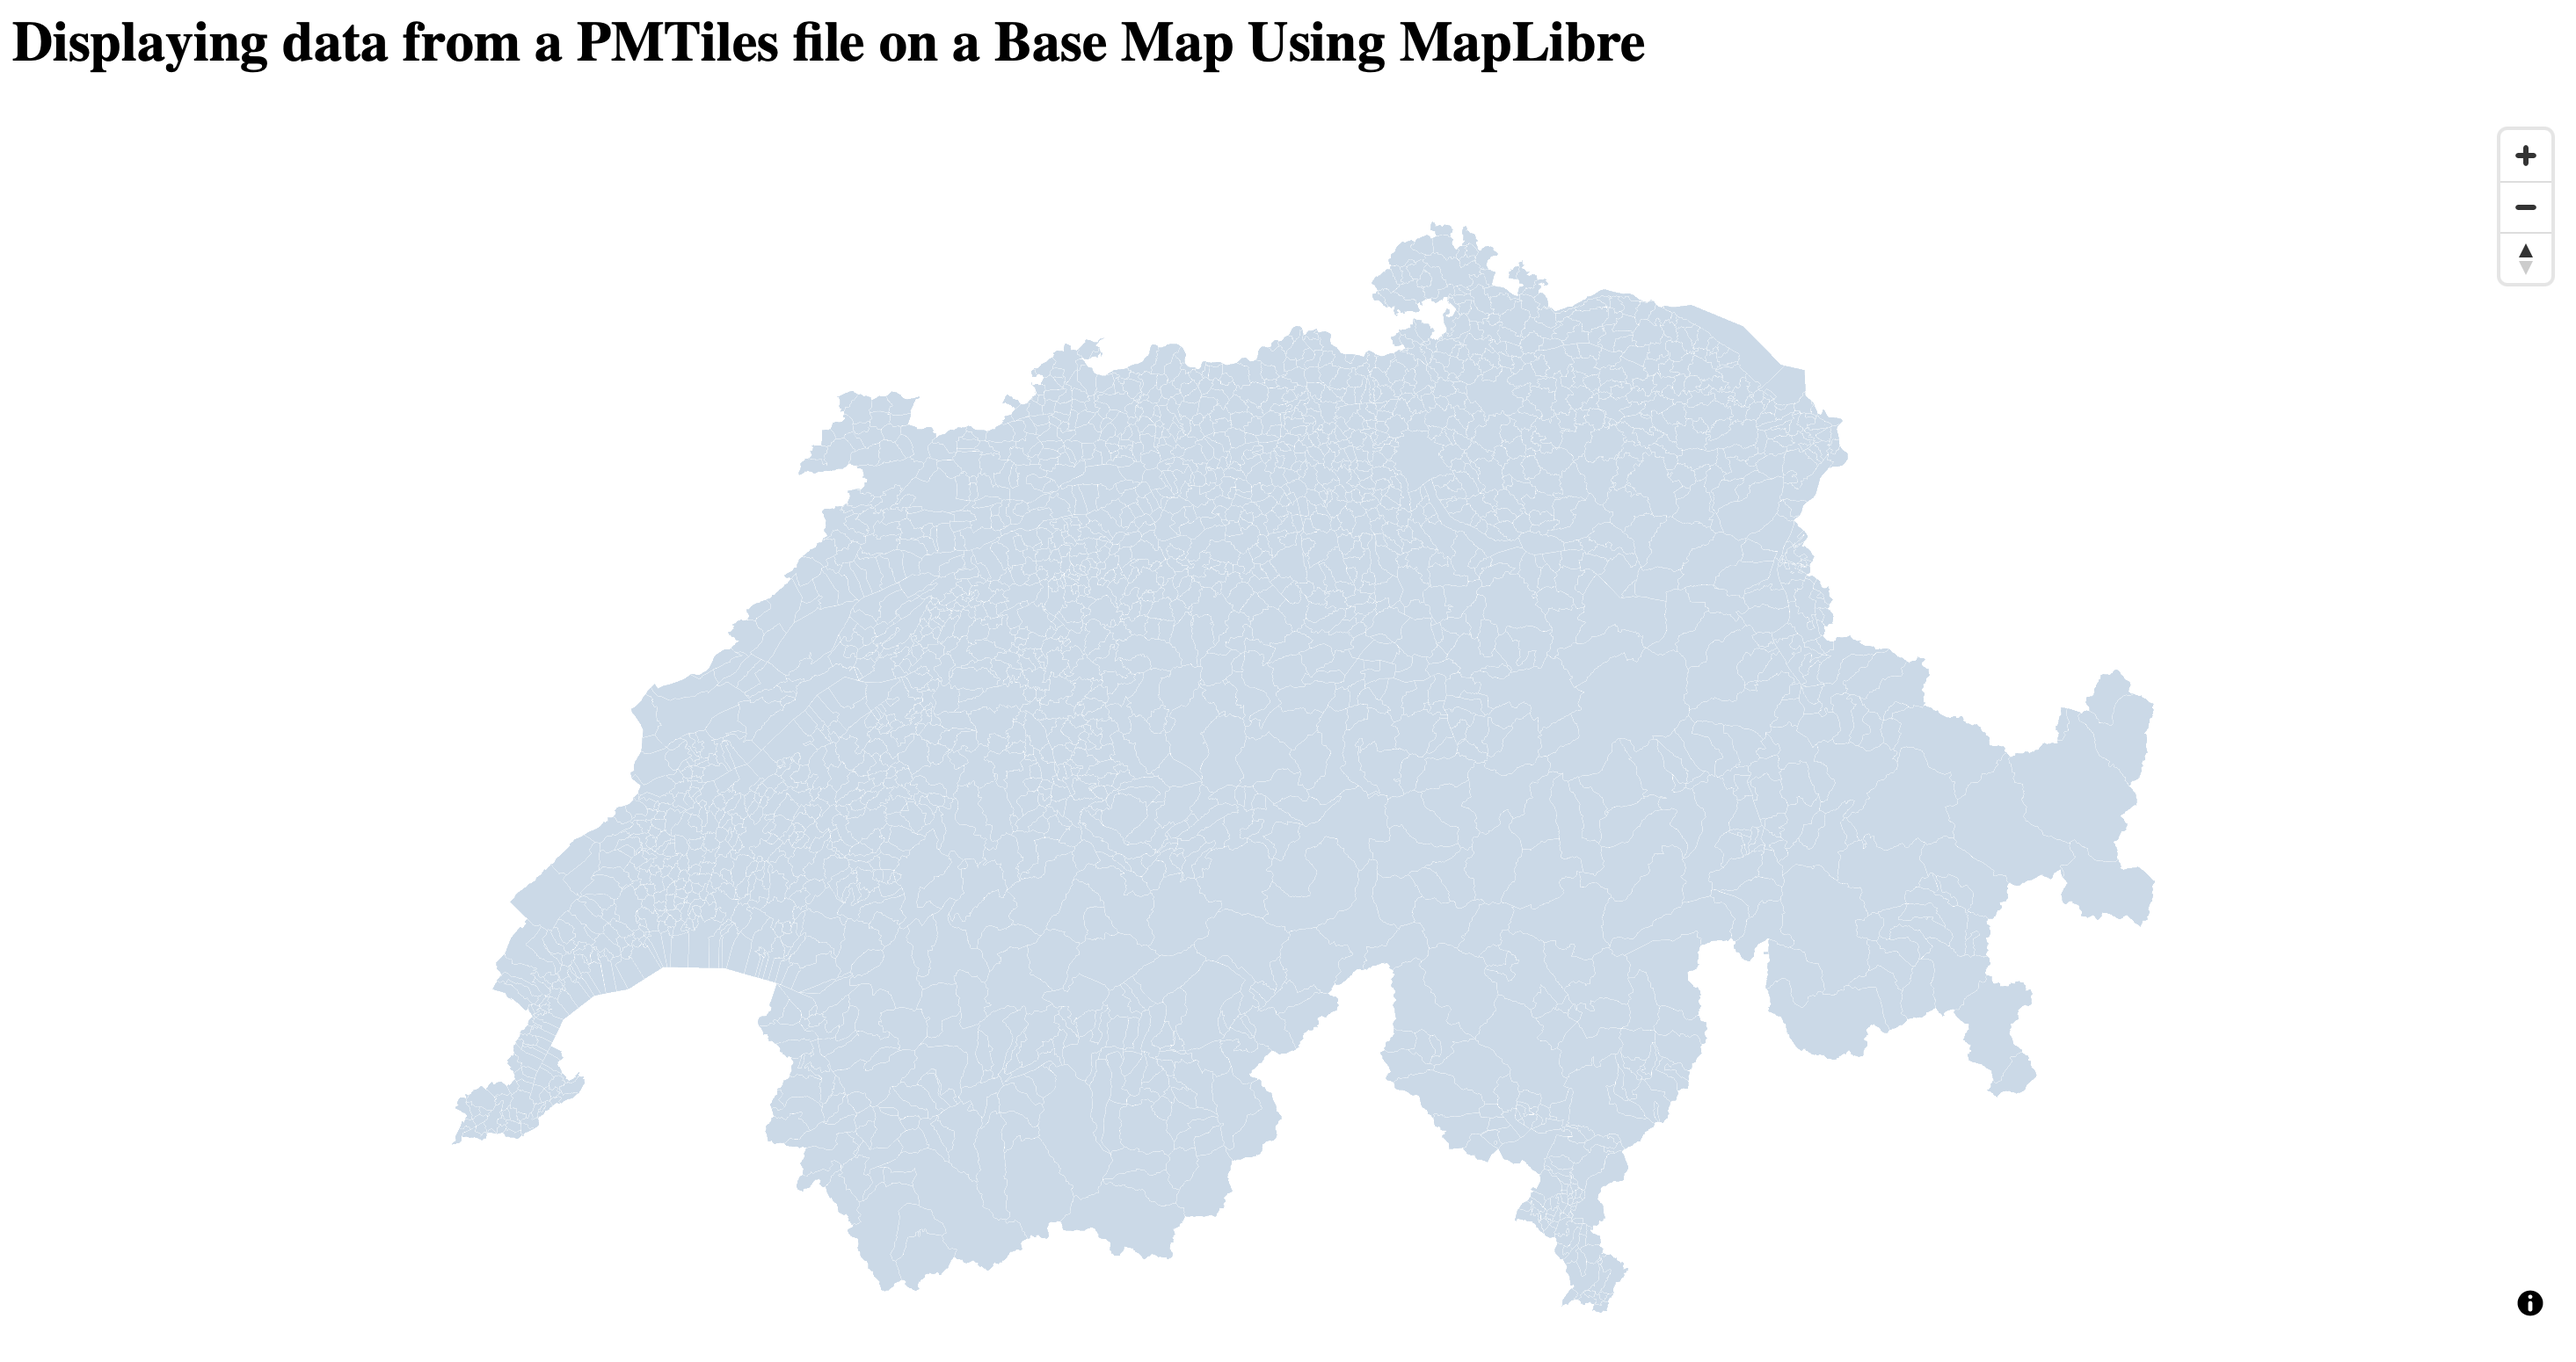
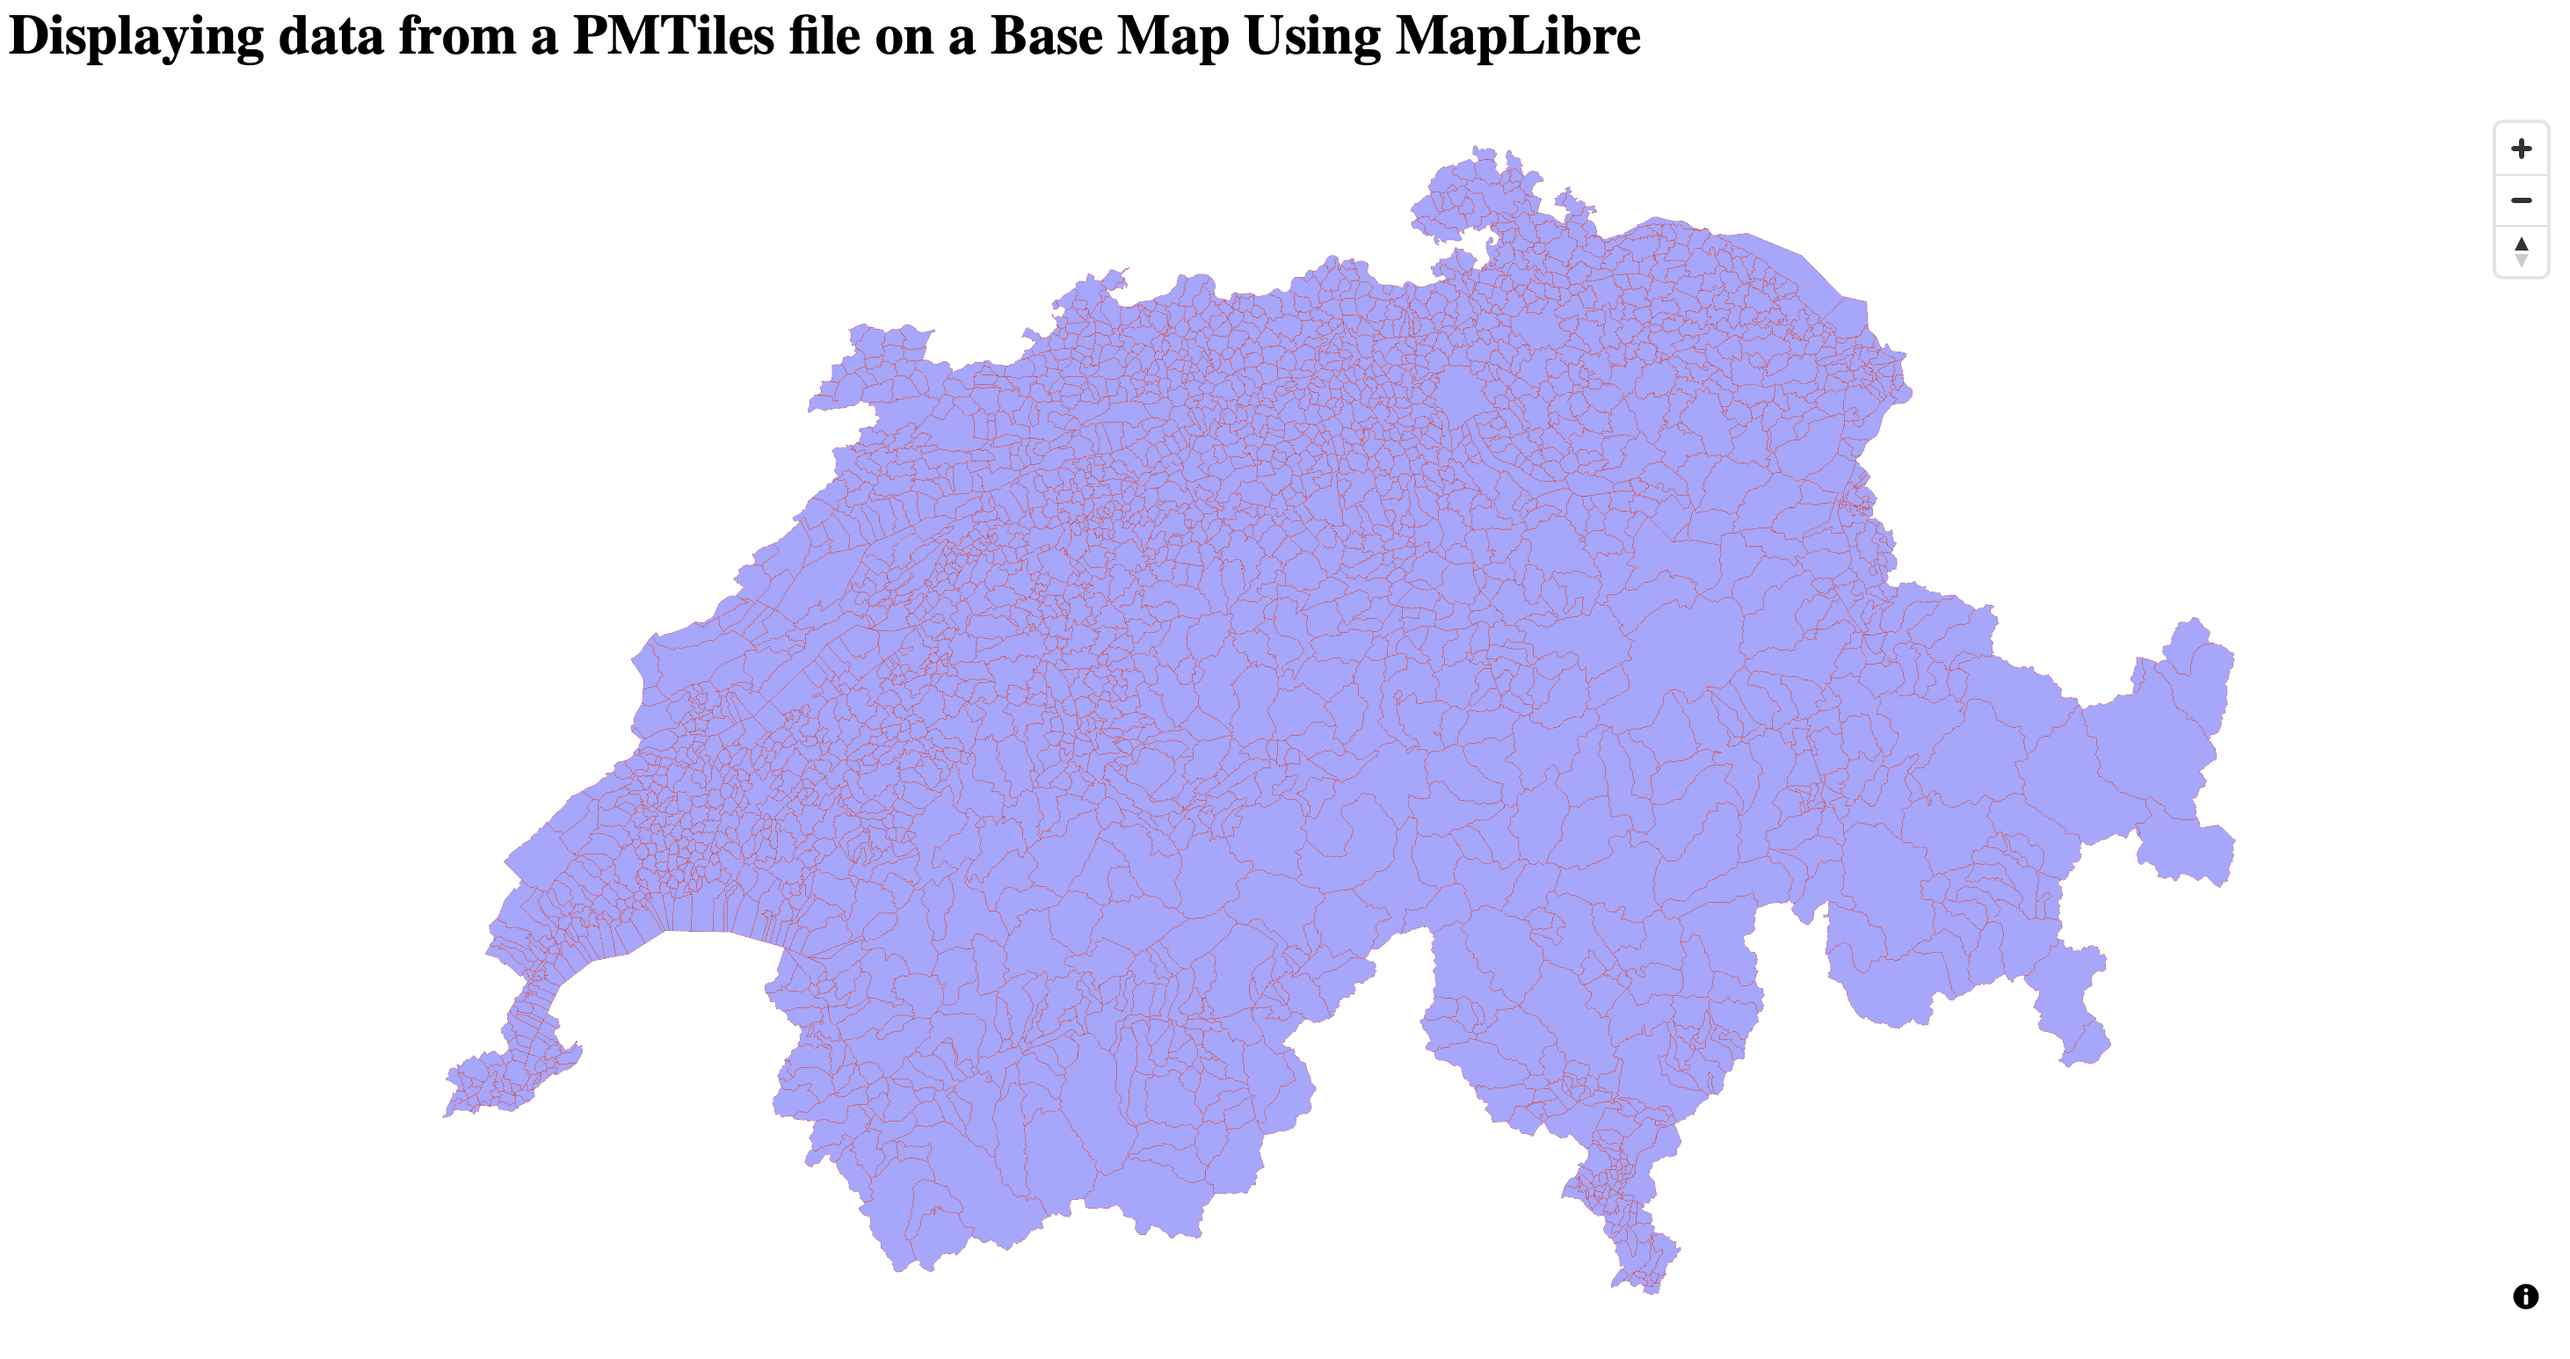
-vue sample - better image - corrected few typos - updated main README with a new tutorial done

diff --git a/2_PMTiles-map/Map.vue b/2_PMTiles-map/Map.vue
@@ -1,0 +1,93 @@
+<template>
+  <v-container fluid>
+    <v-row>
+      <v-col cols="12" no-gutters>
+        <div id="map" class="map-container"></div>   
+      </v-col>
+    </v-row>
+  </v-container>
+</template>
+
+<script setup lang="ts">
+
+import { onMounted, ref } from 'vue'
+import maplibregl from 'maplibre-gl'
+import { Protocol, PMTiles } from 'pmtiles'
+import 'maplibre-gl/dist/maplibre-gl.css'
+
+// we declare the maplibregl.Map object here, as in more complex components
+// you may want to access the objects from other method
+// than the onMounted
+const mapGl = ref<maplibregl.Map|null>(null);
+
+onMounted(async () => {
+
+  // add the pmtiles protocol
+  var p = addPMTilesProtocol()
+
+  // create the map object, bind it to the 'map' div in the template
+  mapGl.value = new maplibregl.Map({
+    container: 'map',
+    style: 'https://geovizbucket.s3.us-west-2.amazonaws.com/osm_basempa_style.json'
+  })
+
+  // add controls
+  mapGl.value?.addControl(new maplibregl.NavigationControl(), 'top-right')
+
+  // zoom center the map
+  const header = await p.getHeader()
+  mapGl.value?.setZoom(header.maxZoom - 3)
+  mapGl.value?.setCenter([header.centerLon, header.centerLat])
+
+  // add sources and layers
+  addPmTilesSourceAndLayer()
+})
+
+function addPMTilesProtocol()
+{
+  // create a protocol and a source(s) to it
+  const protocol = new Protocol()
+  // add PM Tiles protocol
+  maplibregl.addProtocol('pmtiles', protocol.tile)
+  const PMTILES_URL = "https://geovizbucket.s3.us-west-2.amazonaws.com/swiss_gemeinden.pmtiles"
+  const p = new PMTiles(PMTILES_URL)
+  protocol.add(p)
+  return p
+}
+
+function addPmTilesSourceAndLayer()
+{
+  // add source
+  const sourceId = "swiss_gemeinden"
+  mapGl.value?.addSource(sourceId, {
+    type: "vector",
+    url: 'pmtiles://https://geovizbucket.s3.us-west-2.amazonaws.com/swiss_gemeinden.pmtiles'
+  });
+
+  // add layer
+  const layerId = "gdf_gemeinden"
+  mapGl.value?.addLayer({
+    id: layerId,
+    source: sourceId,
+    'source-layer': layerId,
+    type: 'fill',
+    paint: {
+      'fill-color': 'blue',
+      'fill-outline-color': 'red',
+      'fill-opacity': 0.3
+    }
+  });
+}
+
+</script>
+
+<style scoped>
+
+.map-container {
+  width: 100%;
+  height: 500px;
+  margin-left: auto;
+  margin-right: auto;
+}
+
+</style>

diff --git a/2_PMTiles-map/index.html b/2_PMTiles-map/index.html
@@ -64,9 +64,9 @@
               'source-layer': 'gdf_gemeinden',
               type: 'fill',
               paint: {
-                'fill-color': 'steelblue',
-                'fill-outline-color': 'white',
-                'fill-opacity': 0.3
+                'fill-color': 'blue',
+                'fill-outline-color': 'red',
+                'fill-opacity': 0.35
               }
             }
           ]

diff --git a/2_PMTiles-map/README.md b/2_PMTiles-map/README.md
@@ -36,7 +36,7 @@ As a refresher, in the the [first tutorial](../1_simple-map//README.md) we added
 
 ### Load the pmtiles protocol
 
-To be able to load our PMTile file, we first need to add the proper protocol to the ``map`` object. That is, we need to add the protocol ``pmtiles`` to the ``map`` object. This can be done by using the [``addProtocol``](https://maplibre.org/maplibre-gl-js/docs/API/functions/addProtocol/) method of maplibregl, which takes a protocol type as string, and a [AddProtocolAction()](https://maplibre.org/maplibre-gl-js/docs/API/type-aliases/AddProtocolAction/), which is used to register the protocol handler (i.e., the function to use when trying to fetch a tile specified by the protocol). Once the protocol is loaded, we can get from the file header the map 
+To be able to load our PMTile file, we first need to add the proper protocol to the ``map`` object. That is, we need to add the protocol ``pmtiles`` to the ``map`` object. This can be done by using the [``addProtocol()``](https://maplibre.org/maplibre-gl-js/docs/API/functions/addProtocol/) method of maplibregl, which takes as arguments a protocol type as ``string`` and a [AddProtocolAction()](https://maplibre.org/maplibre-gl-js/docs/API/type-aliases/AddProtocolAction/) function, which is used to register the protocol handler (i.e., the function to use when trying to fetch a tile specified by the protocol). Once the protocol is loaded, we can get from the file header the map 
 center and max zoom level, to better center our map view around the data loaded:
 
 ```html
@@ -105,8 +105,8 @@ Once the data is loaded, we can proceed to bind the source and layers to our ``m
               'source-layer': 'gdf_gemeinden',
               type: 'fill',
               paint: {
-                'fill-color': 'steelblue',
-                'fill-outline-color': 'white',
+                'fill-color': 'blue',
+                'fill-outline-color': 'red',
                 'fill-opacity': 0.3
               }
             }
@@ -120,6 +120,8 @@ Once the data is loaded, we can proceed to bind the source and layers to our ``m
 
 </body>
 ```
+
+As you can see, the source and layers are added to the ``style`` section of the constructor. It is important to carefully match the id used for the ``source`` with the ``id`` key of each ``layer`` (this example has only one layer). The same should be done for the ``source`` and ``source-layer`` key of each ``layer``.
 
 Source and layers can also be added _after_ the creation of the map object. To do so, one can use the [``addSource()``](https://maplibre.org/maplibre-gl-js/docs/API/classes/Map/#addsource) and [``addLayer()``](https://maplibre.org/maplibre-gl-js/docs/API/classes/Map/#addlayer) methods of the ``map`` object, which essentially take as argument the same objects we passed to the ``maplibregl.Map`` object constructor. For example, one can add source and layers in the ``onload``callback of said object:
 
@@ -139,8 +141,8 @@ Source and layers can also be added _after_ the creation of the map object. To d
         'source-layer': layerId,
         type: 'fill',
         paint: {
-          'fill-color': 'steelblue',
-          'fill-outline-color': 'white',
+          'fill-color': 'blue',
+          'fill-outline-color': 'red',
           'fill-opacity': 0.3
         }
       });
@@ -217,8 +219,8 @@ That's it! Display tiled data from a PMTiles files is relatively straightforward
               'source-layer': 'gdf_gemeinden',
               type: 'fill',
               paint: {
-                'fill-color': 'steelblue',
-                'fill-outline-color': 'white',
+                'fill-color': 'blue',
+                'fill-outline-color': 'red',
                 'fill-opacity': 0.3
               }
             }
@@ -239,18 +241,17 @@ That's it! Display tiled data from a PMTiles files is relatively straightforward
 
 </html>
  ```
- If you save the code above in a file and save it as ``html`` your should be able to open it in a browser, resulting in something like the following image:
- 
- ![Displaying data from a PMTiles file on a Base Map Using MapLibre](./tutorial_2.png)
 
- ## Bonus: a Vue 3 component to display a PMTiles file on a Base Map Using MapLibre
- As for the [first tutorial](../1_simple-map/README.md) we are going to illustrate how to achieve the same steps detailed above in a Vue 3 component. Also for this case the steps for displaying data from a PMTiles file on a base-map in your page/app using Vue 3 are identical to the ones detailed for the HTML case.
+If you save the code snippet above in a HTML file you should be able to open it in a browser, resulting in something like the following image:
 
- Below you find the complete code, which is also included in the [Map.ve](./Map.vue) file in this tutorial folder:
+![Displaying data from a PMTiles file on a Base Map Using MapLibre](./tutorial_2.png)
 
- TODO
+## Bonus: a Vue 3 component to display a PMTiles file on a Base Map Using MapLibre
+As for the [first tutorial](../1_simple-map/README.md) we are going to illustrate how to achieve the same steps detailed above in a Vue 3 component. Also for this case the steps for displaying data from a PMTiles file on a base-map in your page/app using Vue 3 are identical to the ones detailed for the HTML case: add the ``pmtiles`` protocol, link it to the ``map`` object in your component and finally add a ``source`` and ``layers` to it. Is that simple!
 
- ```vue
+Below you find the complete code, which is also included in the [Map.ve](./Map.vue) file in this tutorial folder:
+
+```vue
 <template>
   <v-container fluid>
     <v-row>
@@ -265,6 +266,7 @@ That's it! Display tiled data from a PMTiles files is relatively straightforward
 
 import { onMounted, ref } from 'vue'
 import maplibregl from 'maplibre-gl'
+import { Protocol, PMTiles } from 'pmtiles'
 import 'maplibre-gl/dist/maplibre-gl.css'
 
 // we declare the maplibregl.Map object here, as in more complex components
@@ -274,6 +276,9 @@ const mapGl = ref<maplibregl.Map|null>(null);
 
 onMounted(async () => {
 
+  // add the pmtiles protocol
+  var p = addPMTilesProtocol()
+
   // create the map object, bind it to the 'map' div in the template
   mapGl.value = new maplibregl.Map({
     container: 'map',
@@ -281,12 +286,52 @@ onMounted(async () => {
   })
 
   // add controls
-  mapGl.value?.addControl(new maplibregl.NavigationControl(), 'bottom-right')
+  mapGl.value?.addControl(new maplibregl.NavigationControl(), 'top-right')
 
   // zoom center the map
-  mapGl.value?.setZoom(14)
-  mapGl.value?.setCenter([8.542810246023732, 47.371741515957304])
+  const header = await p.getHeader()
+  mapGl.value?.setZoom(header.maxZoom - 3)
+  mapGl.value?.setCenter([header.centerLon, header.centerLat])
+
+  // add sources and layers
+  addPmTilesSourceAndLayer()
 })
+
+function addPMTilesProtocol()
+{
+  // create a protocol and a source(s) to it
+  const protocol = new Protocol()
+  // add PM Tiles protocol
+  maplibregl.addProtocol('pmtiles', protocol.tile)
+  const PMTILES_URL = "https://geovizbucket.s3.us-west-2.amazonaws.com/swiss_gemeinden.pmtiles"
+  const p = new PMTiles(PMTILES_URL)
+  protocol.add(p)
+  return p
+}
+
+function addPmTilesSourceAndLayer()
+{
+  // add source
+  const sourceId = "swiss_gemeinden"
+  mapGl.value?.addSource(sourceId, {
+    type: "vector",
+    url: 'pmtiles://https://geovizbucket.s3.us-west-2.amazonaws.com/swiss_gemeinden.pmtiles'
+  });
+
+  // add layer
+  const layerId = "gdf_gemeinden"
+  mapGl.value?.addLayer({
+    id: layerId,
+    source: sourceId,
+    'source-layer': layerId,
+    type: 'fill',
+    paint: {
+      'fill-color': 'blue',
+      'fill-outline-color': 'red',
+      'fill-opacity': 0.3
+    }
+  });
+}
 
 </script>
 

diff --git a/README.md b/README.md
@@ -9,7 +9,7 @@ This repo provides a practical, hands-on approach to display maps on the Web. We
 |--------|-------------|--------|
 | [Getting Started](./0_getting-started) | Set up your dev environment for the main tutorials | ✅ | 
 | [Display a Base Map](./1_simple-map) | Learn how to use [maplibre-gl-js](https://github.com/maplibre/maplibre-gl-js) to display a base map| ✅ |
-| [Working with PMTiles files](./2_PMTiles-map) | Learn how to access `PMTiles` files using the `pmtiles` protocol and display tiled data on a base map | 🚧 WIP |
+| [Working with PMTiles files](./2_PMTiles-map) | Learn how to access `PMTiles` files using the `pmtiles` protocol and display tiled data on a base map | ✅ |
 | [Working with Cloud Optimized GEOTiff files](./3_Cloud-Optimized-GeoTIFF) | Learn how to access `COG` files to display data on a base map | 🚧 WIP |
 | [Dynamically Load Layers](./4_layer-list) | Create a list of available layers and dynamically toggle them on a base map | 🚧 WIP | 
 

diff --git a/1_simple-map/README.md b/1_simple-map/README.md
@@ -144,7 +144,7 @@ The complete example code used in this first tutorial can be found below (you wi
 </html>
  ```
 
-If you save the code above in a file and save it as ``html`` your should be able to open it in a browser, resulting in something like the following image:
+If you save the code above in a HTML file you should be able to open it in a browser, resulting in something like the following image:
 
 ![Displaying a Base Map Using MapLibre](./tutorial_1.png)
 
